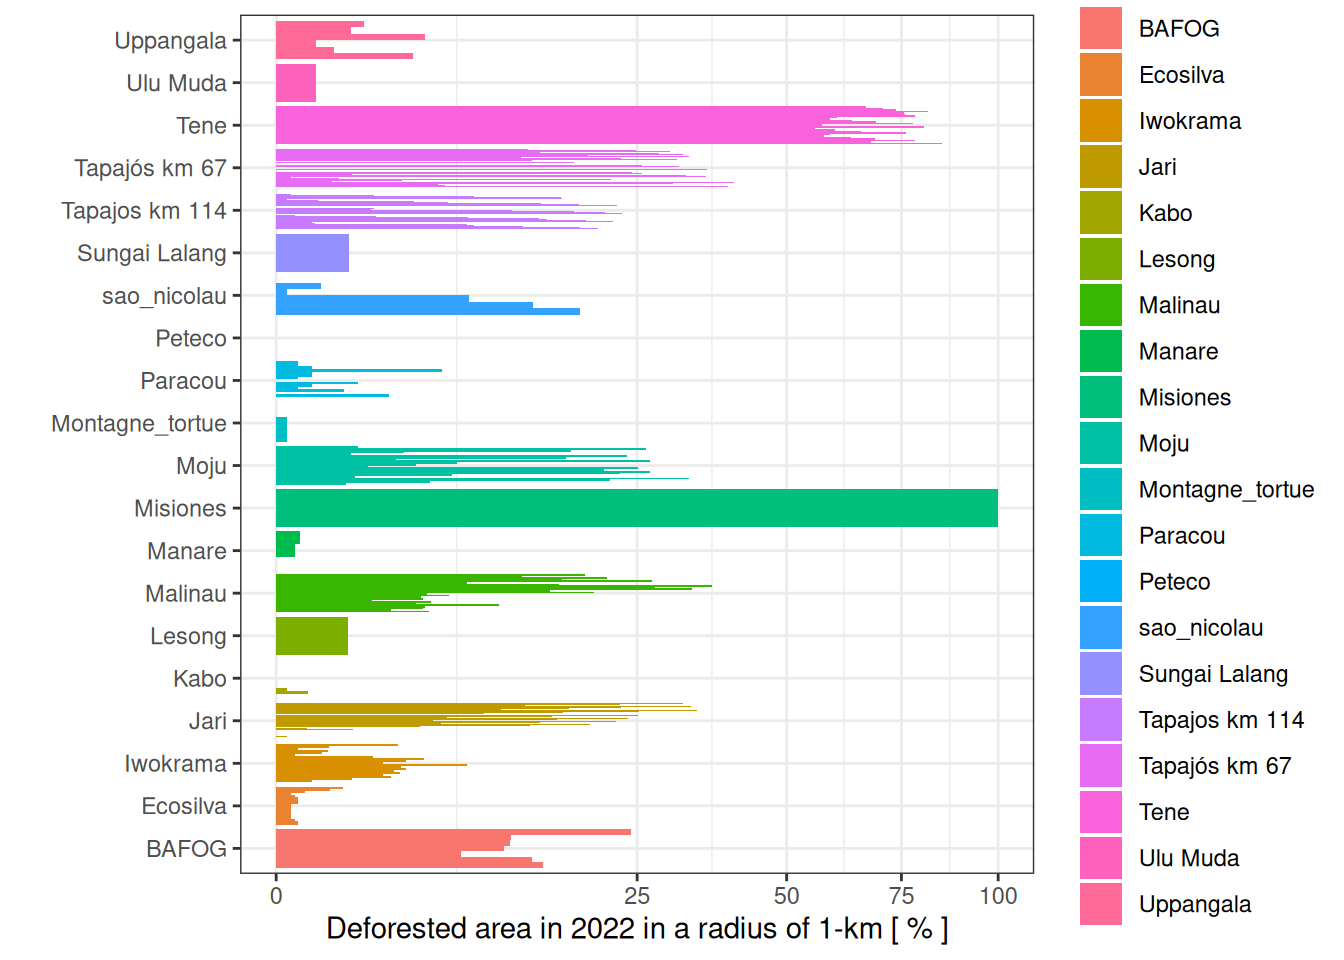
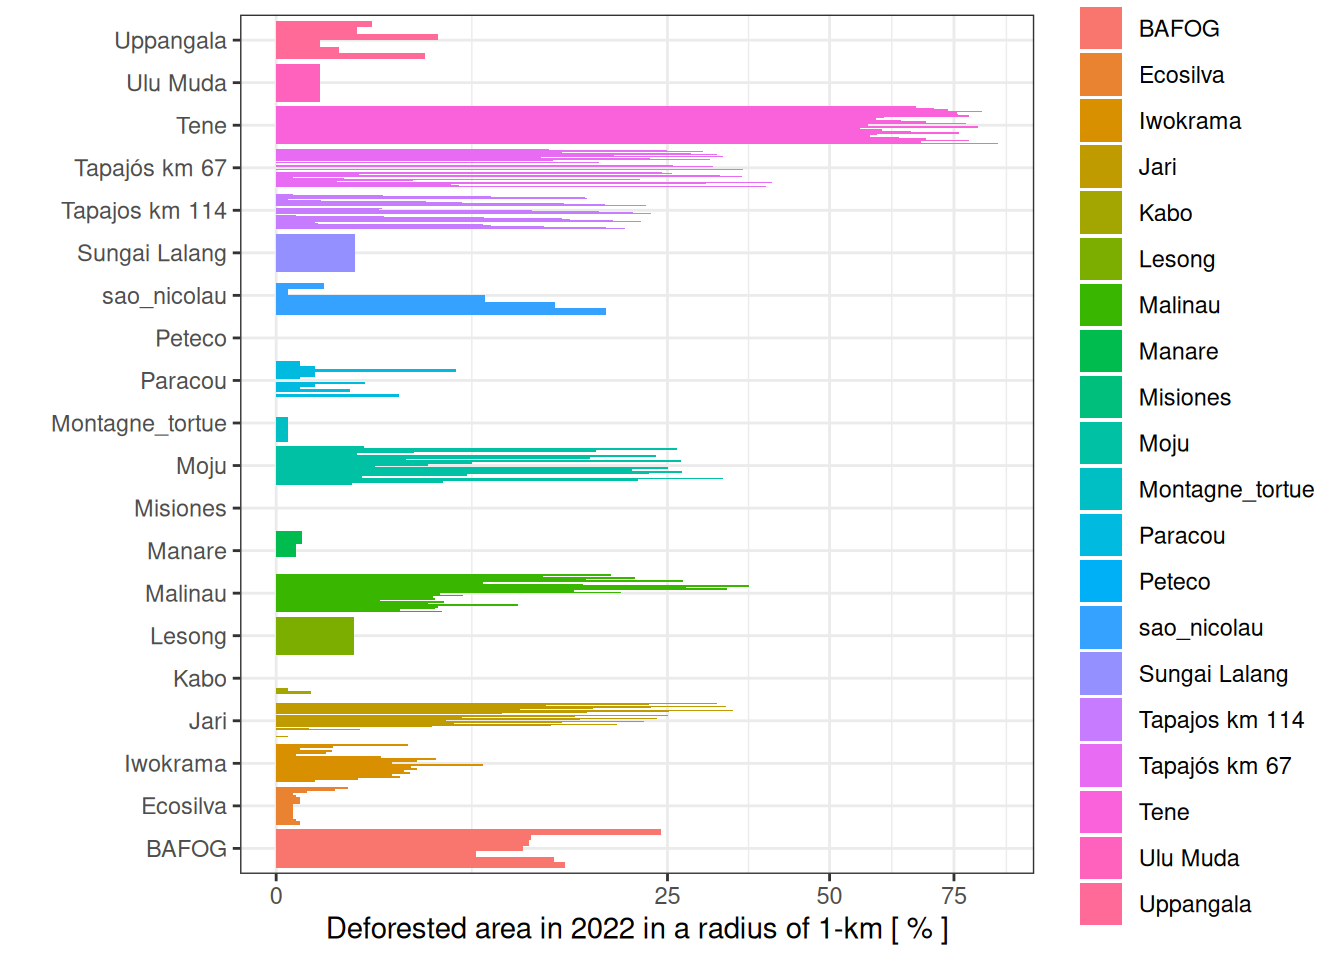
environment 0.1.0.9012: tmf misiones understood, #1

diff --git a/docs/15_landscape.html b/docs/15_landscape.html
@@ -247,12 +247,13 @@ div.csl-indent {
 <span id="cb1-8"><a href="#cb1-8" aria-hidden="true" tabindex="-1"></a>  <span class="fu">select</span>(<span class="sc">-</span><span class="st">`</span><span class="at">0</span><span class="st">`</span>) <span class="sc">%&gt;%</span></span>
 <span id="cb1-9"><a href="#cb1-9" aria-hidden="true" tabindex="-1"></a>  <span class="fu">mutate</span>(<span class="st">`</span><span class="at">1</span><span class="st">`</span> <span class="ot">=</span> <span class="fu">ifelse</span>(<span class="fu">is.na</span>(<span class="st">`</span><span class="at">1</span><span class="st">`</span>), <span class="dv">0</span>, <span class="st">`</span><span class="at">1</span><span class="st">`</span>)) <span class="sc">%&gt;%</span></span>
 <span id="cb1-10"><a href="#cb1-10" aria-hidden="true" tabindex="-1"></a>  <span class="fu">summarise</span>(<span class="at">intact =</span> <span class="st">`</span><span class="at">1</span><span class="st">`</span> <span class="sc">/</span> n_tot <span class="sc">*</span> <span class="dv">100</span>) <span class="sc">%&gt;%</span></span>
-<span id="cb1-11"><a href="#cb1-11" aria-hidden="true" tabindex="-1"></a>  <span class="fu">write_tsv</span>(<span class="st">"outputs/landscape.tsv"</span>)</span></code><button title="Copy to Clipboard" class="code-copy-button"><i class="bi"></i></button></pre></div>
+<span id="cb1-11"><a href="#cb1-11" aria-hidden="true" tabindex="-1"></a>  <span class="fu">mutate</span>(<span class="at">intact =</span> <span class="fu">ifelse</span>(site <span class="sc">==</span> <span class="st">"Misiones"</span>, <span class="cn">NA</span>, intact)) <span class="sc">%&gt;%</span> </span>
+<span id="cb1-12"><a href="#cb1-12" aria-hidden="true" tabindex="-1"></a>  <span class="fu">write_tsv</span>(<span class="st">"outputs/landscape.tsv"</span>)</span></code><button title="Copy to Clipboard" class="code-copy-button"><i class="bi"></i></button></pre></div>
 </details>
 </div>
 <p>Most sites showed low deforestation level in the 90s but most of them showed deforestation increasing through time.</p>
 <blockquote class="blockquote">
-<p>There are issues with locations of Lesong, Malinau, Missiones, Sungai Lalang, Tené, Ulu Muda, and Uppangala that doesn’t fall on forest according to TMF.</p>
+<p>There are no data for Missiones as it is considered not in TMF by JRC.</p>
 </blockquote>
 <div class="cell">
 <details>

diff --git a/NEWS.md b/NEWS.md
@@ -1,3 +1,4 @@
+-   environment 0.1.0.9012: tmf misiones understood, #1
 -   environment 0.1.0.9011: tmf extraction fixed for all except missiones, #1
 -   environment 0.1.0.9010: esri wolrd imagery in site map for manual inspection of landscape, #1
 -   environment 0.1.0.9009: structure update
